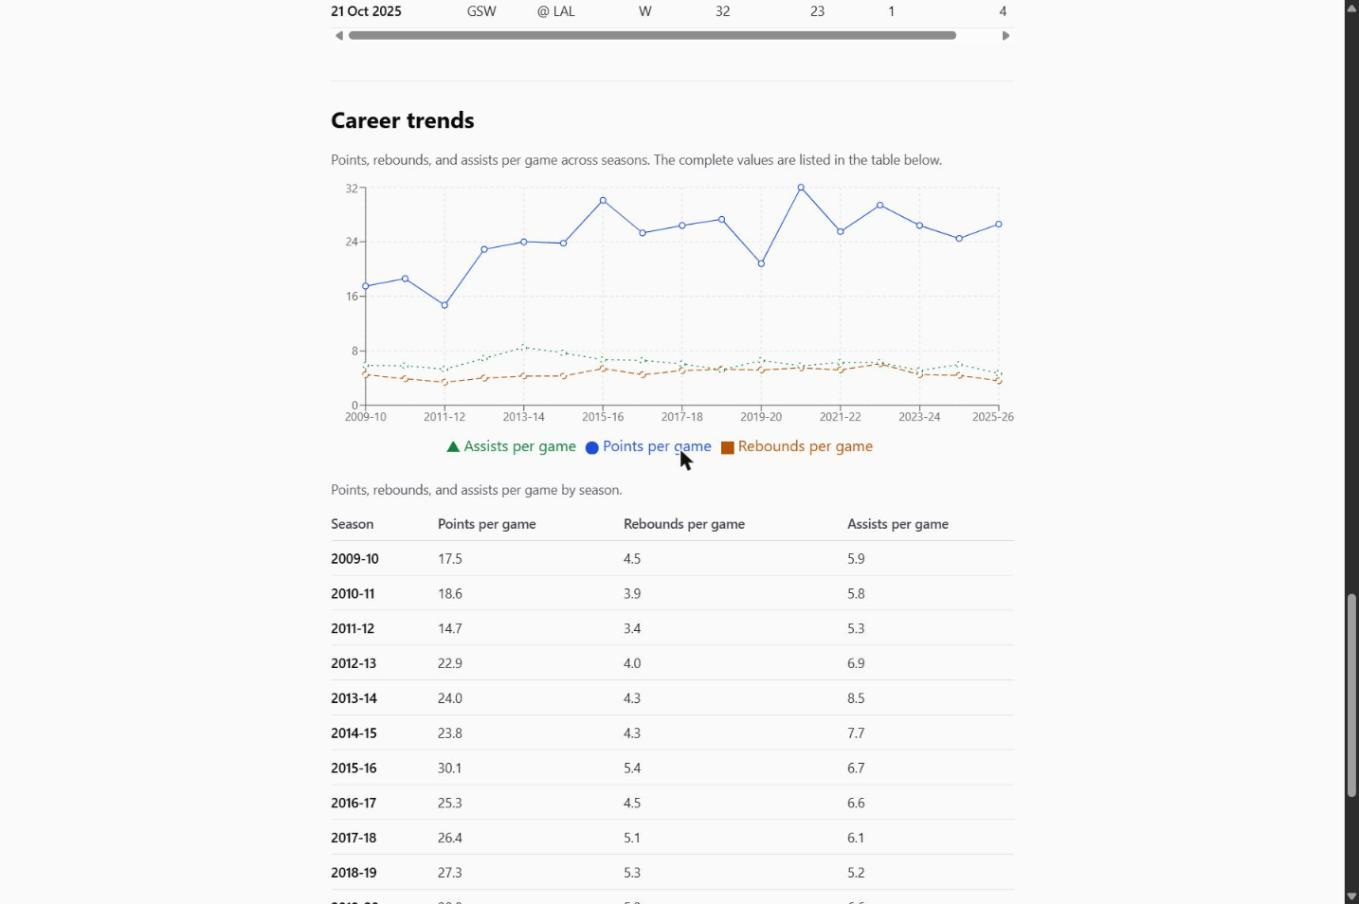
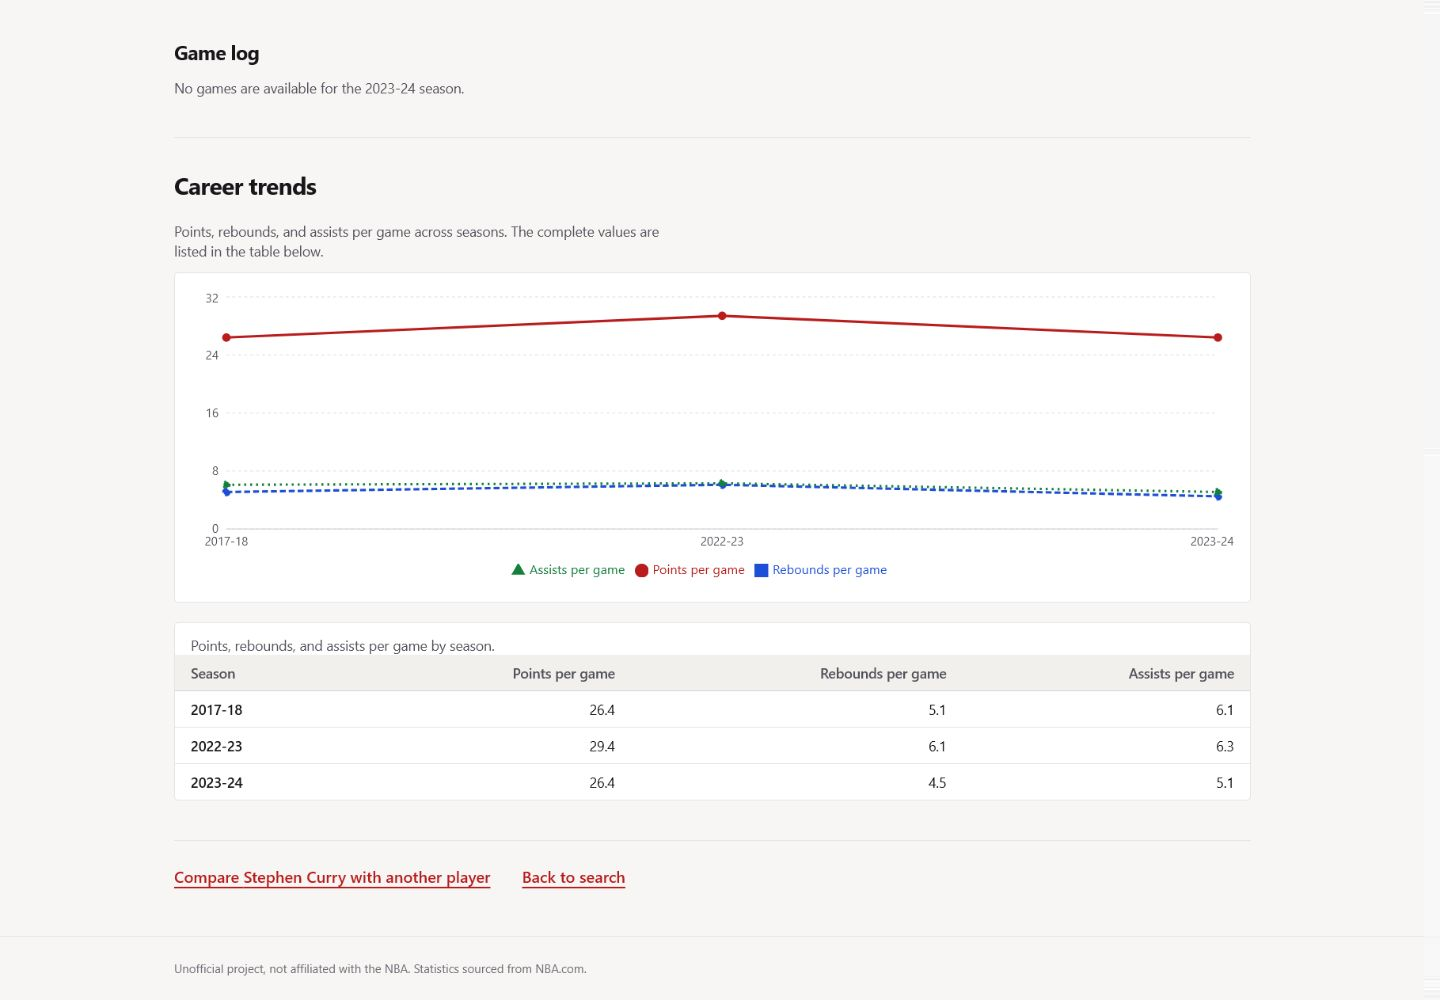
docs(portfolio): refresh final application screenshots

diff --git a/docs/PORTFOLIO.md b/docs/PORTFOLIO.md
@@ -110,7 +110,7 @@ statistics, or silently substitutes fixture data.
   contracts, deployed as a single same-origin service on Render with GitHub Actions CI.
 - Integrated a live NBA.com Stats provider behind a backend-only boundary with strict runtime
   validation, sanitized error states, and no silent fixture fallback, while keeping fixtures as
-  the deterministic default for 398 offline automated tests (154 frontend, 244 backend).
+  the deterministic default for 404 offline automated tests (160 frontend, 244 backend).
 - Implemented accessibility-focused data interaction: a keyboard-navigable search combobox, a
   career chart paired with an equivalent semantic table (non-colour-only series), route-level
   focus management, and a top-level React error boundary with a sanitized recovery screen.
@@ -130,7 +130,7 @@ interface. Fixtures keep local development, tests, and CI deterministic and offl
 backend-private live provider serves production. Swapping sources is configuration, not a
 rewrite.
 
-**Testing strategy.** 398 deterministic tests run offline — MSW mocks the network on the
+**Testing strategy.** 404 deterministic tests run offline — MSW mocks the network on the
 frontend, Supertest exercises the Express app on the backend. Tests assert observable behavior
 (roles, sanitized text, focus) rather than implementation details.
 

diff --git a/README.md b/README.md
@@ -12,7 +12,8 @@ is an external dependency, so live data availability is not guaranteed continuou
 
 ## Screenshots
 
-Captured from the live production app (Stephen Curry and Kevin Durant, 2025-26 season).
+Captured from the final redesigned app with deterministic fixture data (Stephen Curry and
+LeBron James, 2023-24 season).
 
 <a href="https://nba-performance-explorer.onrender.com">
   <img src="docs/assets/home-desktop.png" alt="NBA Performance Explorer home page: a product hero with the player search and a live-data status indicator." width="100%" />
@@ -31,7 +32,7 @@ Captured from the live production app (Stephen Curry and Kevin Durant, 2025-26 s
   </tr>
   <tr>
     <td width="50%">
-      <img src="docs/assets/player-comparison-desktop.png" alt="Two-player regular-season comparison table: Stephen Curry versus Kevin Durant for the 2025-26 season." width="100%" />
+      <img src="docs/assets/player-comparison-desktop.png" alt="Two-player regular-season comparison table: Stephen Curry versus LeBron James for the 2023-24 season." width="100%" />
       <br /><sub>Two-player season comparison</sub>
     </td>
     <td width="50%">

diff --git a/docs/PROJECT_STATE.md b/docs/PROJECT_STATE.md
@@ -40,9 +40,9 @@ shared contracts, the provider, query/cache behaviour, dependencies, or Render c
   chart-axis clarity, and documentation/test-total updates (160 frontend, 244 backend, 404
   total).
 
-The portfolio screenshots under `docs/assets/` still show the pre-redesign visual system and
-require a manual recapture from the final application; the README screenshot descriptions
-remain accurate as feature descriptions in the meantime.
+The five portfolio screenshots under `docs/assets/` have been refreshed from the final
+redesigned application using deterministic local fixture data. The README screenshot captions
+now describe the refreshed Stephen Curry and LeBron James `2023-24` fixture comparison.
 
 ## Summary
 
